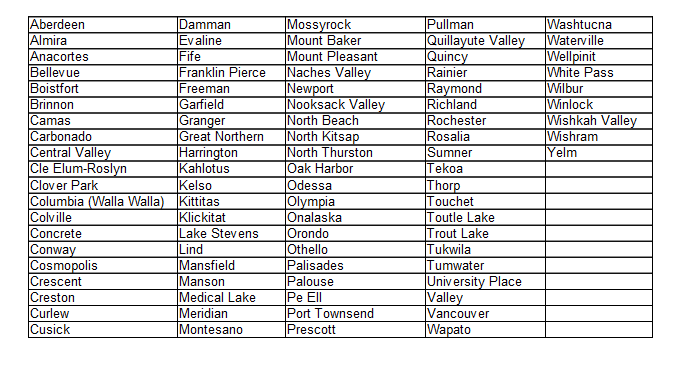
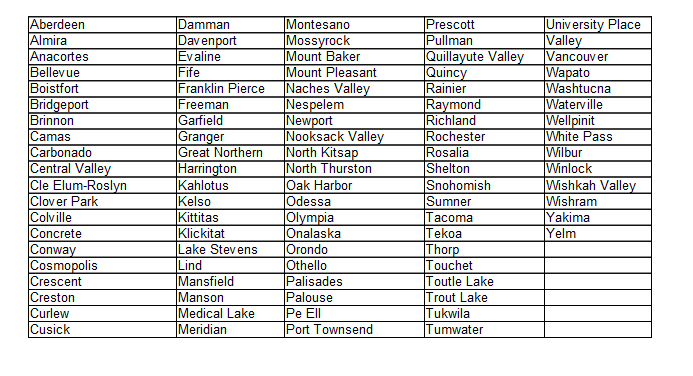
Updated the election month report
Updated Feb only districts

Changed region(s): [[0.0303, 0.0293, 0.5758, 0.9069], [0.6061, 0.0293, 0.7576, 0.9069], [0.7879, 0.0293, 0.9394, 0.6436]]

diff --git a/pagesManual/ElectionMonthReport/report_election_month.md b/pagesManual/ElectionMonthReport/report_election_month.md
@@ -70,7 +70,7 @@ ___
 ___
 
 ## School districts that have only run their tax measures in February
-There are 89 school districts that have only run their measures in February over the 13 year time span in this study.
+There are 94 school districts that have only run their measures in February over the 13 year time span in this study.
 
 ![Table of districts that only has had Feb elections](pagesManual/ElectionMonthReport/FebOnlyDistricts.png "Feb Only Districts")
 
